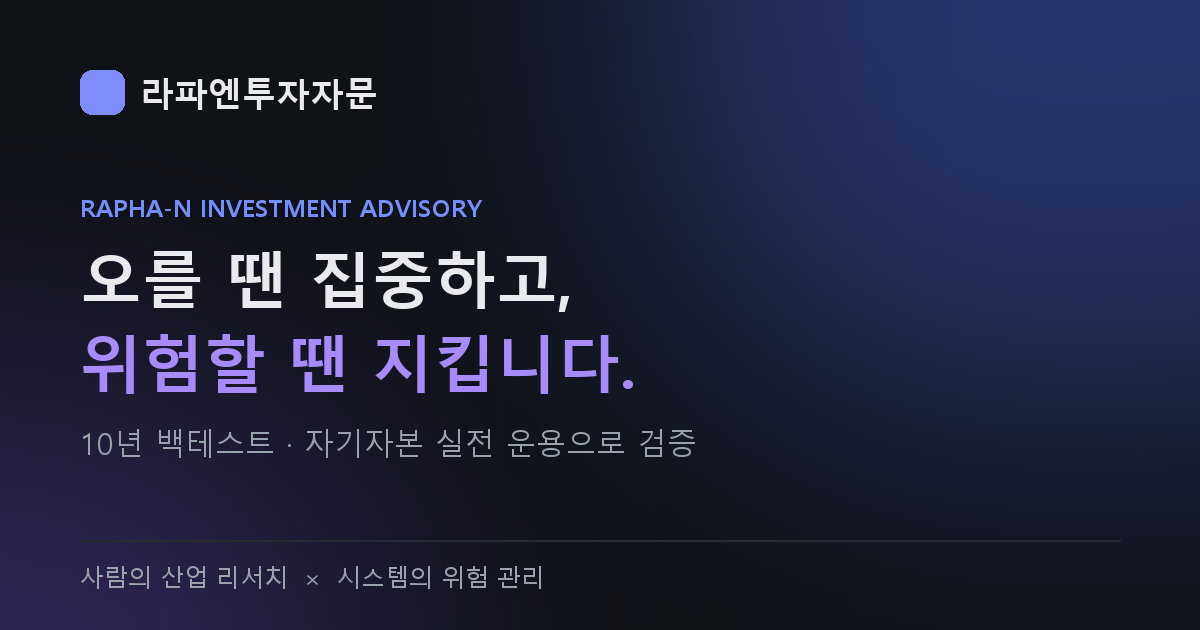
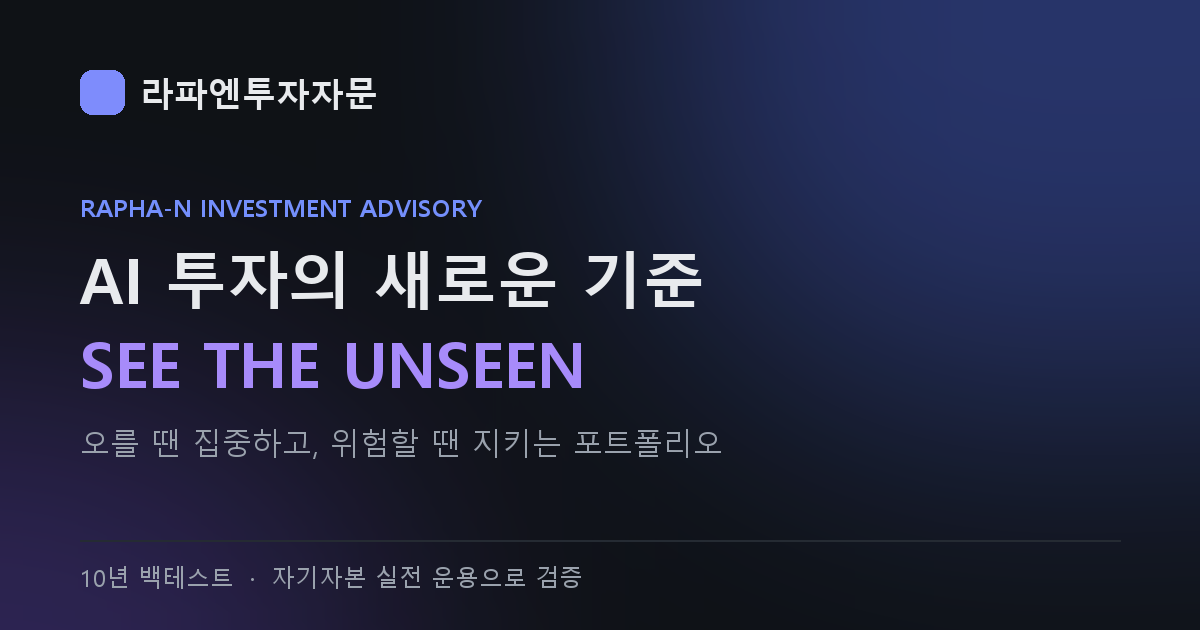
홈 히어로: 제목은 원래 문구로, 소제목을 두 줄(포트폴리오 한 줄 + 설명)로 변경

Changed region(s): [[0.0617, 0.3921, 0.5858, 0.6333], [0.0617, 0.6635, 0.6167, 0.7238], [0.0617, 0.8746, 0.4933, 0.9349]]

diff --git a/index.html b/index.html
@@ -3,12 +3,12 @@
 <head>
 <meta charset="utf-8">
 <meta name="viewport" content="width=device-width,initial-scale=1">
-<title>라파엔투자자문 — 오를 땐 집중하고, 위험할 땐 지킵니다</title>
+<title>라파엔투자자문 — AI 투자의 새로운 기준</title>
 <!-- og -->
 <meta property="og:type" content="website">
 <meta property="og:site_name" content="라파엔투자자문">
-<meta property="og:title" content="라파엔투자자문 — 오를 땐 집중하고, 위험할 땐 지킵니다">
-<meta property="og:description" content="10년 백테스트와 자기자본 실전 운용으로 검증한 투자 시스템.">
+<meta property="og:title" content="라파엔투자자문 — AI 투자의 새로운 기준">
+<meta property="og:description" content="오를 땐 집중하고, 위험할 땐 지키는 포트폴리오. 10년 백테스트와 자기자본 실전 운용으로 검증했습니다.">
 <meta property="og:url" content="https://pdhman.github.io/rapha-n-site/">
 <meta property="og:image" content="https://pdhman.github.io/rapha-n-site/assets/og-site.png">
 <meta property="og:image:width" content="1200">
@@ -17,7 +17,7 @@
 <!-- /og -->
 <meta name="description" content="10년 백테스트와 자기자본 실전 운용으로 검증한 투자 시스템. 오를 땐 성장 산업에 집중하고, 위험할 땐 현금으로 지킵니다.">
 <link rel="stylesheet" href="https://cdn.jsdelivr.net/gh/orioncactus/pretendard@v1.3.9/dist/web/variable/pretendardvariable.min.css">
-<link rel="stylesheet" href="assets/style.css?v=20260918b">
+<link rel="stylesheet" href="assets/style.css?v=20260918c">
 </head>
 <body>
 
@@ -25,9 +25,10 @@
 <section class="hero">
   <canvas id="hero-canvas"></canvas>
   <div class="inner">
-    <div class="hero-badge">10년 백테스트 · 자기자본 실전 운용으로 검증</div>
-    <h1>오를 땐 집중하고,<br>위험할 땐 지킵니다</h1>
-    <p class="lead">사람의 산업 리서치와 시스템의 위험 관리를 결합한 투자자문</p>
+    <h1>AI 투자의 새로운 기준을 제시하다</h1>
+    <div class="en">SEE THE UNSEEN</div>
+    <p class="lead-strong">오를 땐 집중하고, 위험할 땐 지키는 포트폴리오</p>
+    <p class="lead">방대한 시장 데이터를 자동으로 수집·분석해 감정과 편향에 흔들리지 않는 투자 의사결정을 돕습니다.</p>
     <div class="btn-row">
       <a class="btn primary" href="product.html">자문 상품 보기</a>
       <a class="btn" href="information.html">오늘의 리서치</a>
@@ -94,6 +95,6 @@
   <a class="btn primary" href="product.html#contact">상담 문의</a>
 </section>
 
-<script src="assets/site.js?v=20260918b"></script>
+<script src="assets/site.js?v=20260918c"></script>
 </body>
 </html>

diff --git a/assets/style.css b/assets/style.css
@@ -364,8 +364,6 @@ a.card:hover { transform:translateY(-2px); }
 /* ── 자문 상품 · 홈 개편 ── */
 .hero-badge { display:inline-block; padding:8px 18px; border-radius:999px; font-size:13.5px; font-weight:700; letter-spacing:.01em;
   color:#dfe5ff; background:rgba(116,143,252,.16); border:1px solid rgba(140,160,255,.45); margin-bottom:26px; }
-.hero h1 { font-size:clamp(34px,6vw,68px); line-height:1.18; margin-bottom:22px; }
-.hero p.lead { font-size:clamp(15px,2vw,19px); }
 .prod-hero h1 { font-size:clamp(26px,4vw,44px); }
 .prod-hero h1 span { display:block; font-size:.62em; color:var(--muted); font-weight:700; margin-bottom:6px; }
 
@@ -458,3 +456,6 @@ a.card:hover { transform:translateY(-2px); }
 .nav .sub li.sub-head { font-size:11px; font-weight:700; color:var(--muted); padding:10px 12px 4px; letter-spacing:.06em; }
 .nav .sub li.sub-head:first-child { padding-top:4px; }
 .nav .sub { max-height:calc(100vh - 90px); overflow:auto; }
+
+.hero p.lead-strong { margin:0 auto 12px; font-size:clamp(17px,2.4vw,24px); font-weight:700; color:#fff; letter-spacing:-.01em; }
+.hero p.lead { font-size:clamp(14px,1.7vw,17px); max-width:660px; }

diff --git a/education.html b/education.html
@@ -17,7 +17,7 @@
 <!-- /og -->
 <meta name="description" content="라파엔투자자문의 투자 교육 과정. AI와 함께 배우는 퀀트 투자 과정을 시작으로 교육 과정을 늘려 갑니다.">
 <link rel="stylesheet" href="https://cdn.jsdelivr.net/gh/orioncactus/pretendard@v1.3.9/dist/web/variable/pretendardvariable.min.css">
-<link rel="stylesheet" href="assets/style.css?v=20260918b">
+<link rel="stylesheet" href="assets/style.css?v=20260918c">
 </head>
 <body>
 
@@ -90,6 +90,6 @@
   <a class="btn primary" href="edu-quant.html">과정 보러 가기</a>
 </section>
 
-<script src="assets/site.js?v=20260918b"></script>
+<script src="assets/site.js?v=20260918c"></script>
 </body>
 </html>

diff --git a/edu-quant.html b/edu-quant.html
@@ -17,7 +17,7 @@
 <!-- /og -->
 <meta name="description" content="코딩을 몰라도 AI와 함께 나만의 투자 규칙을 만들고 검증하는 퀀트 입문 과정. 직장인·대학생 누구나.">
 <link rel="stylesheet" href="https://cdn.jsdelivr.net/gh/orioncactus/pretendard@v1.3.9/dist/web/variable/pretendardvariable.min.css">
-<link rel="stylesheet" href="assets/style.css?v=20260918b">
+<link rel="stylesheet" href="assets/style.css?v=20260918c">
 </head>
 <body>
 
@@ -256,6 +256,6 @@
   <a class="btn primary" href="#apply">수강 신청하기</a>
 </section>
 
-<script src="assets/site.js?v=20260918b"></script>
+<script src="assets/site.js?v=20260918c"></script>
 </body>
 </html>

diff --git a/admin.html b/admin.html
@@ -6,7 +6,7 @@
 <meta name="robots" content="noindex">
 <title>관리자 · 라파엔투자자문</title>
 <link rel="stylesheet" href="https://cdn.jsdelivr.net/gh/orioncactus/pretendard@v1.3.9/dist/web/variable/pretendardvariable.min.css">
-<link rel="stylesheet" href="assets/style.css?v=20260918b">
+<link rel="stylesheet" href="assets/style.css?v=20260918c">
 </head>
 <body>
 
@@ -74,7 +74,7 @@
   </div>
 </section>
 
-<script src="assets/site.js?v=20260918b"></script>
+<script src="assets/site.js?v=20260918c"></script>
 <script>
 (function () {
   var API = 'https://api.github.com/repos/' + SITE.repo + '/contents/' + SITE.noticesFile;

diff --git a/business.html b/business.html
@@ -5,7 +5,7 @@
 <meta name="viewport" content="width=device-width,initial-scale=1">
 <title>Business · 라파엔투자자문</title>
 <link rel="stylesheet" href="https://cdn.jsdelivr.net/gh/orioncactus/pretendard@v1.3.9/dist/web/variable/pretendardvariable.min.css">
-<link rel="stylesheet" href="assets/style.css?v=20260918b">
+<link rel="stylesheet" href="assets/style.css?v=20260918c">
 </head>
 <body>
 
@@ -82,6 +82,6 @@
   <a class="btn primary" href="about.html">오시는 길 · 연락처</a>
 </section>
 
-<script src="assets/site.js?v=20260918b"></script>
+<script src="assets/site.js?v=20260918c"></script>
 </body>
 </html>

diff --git a/product.html b/product.html
@@ -17,7 +17,7 @@
 <!-- /og -->
 <meta name="description" content="오를 땐 성장 산업에 집중하고, 위험할 땐 현금으로 지키는 라파엔투자자문의 자문 상품.">
 <link rel="stylesheet" href="https://cdn.jsdelivr.net/gh/orioncactus/pretendard@v1.3.9/dist/web/variable/pretendardvariable.min.css">
-<link rel="stylesheet" href="assets/style.css?v=20260918b">
+<link rel="stylesheet" href="assets/style.css?v=20260918c">
 </head>
 <body>
 
@@ -152,6 +152,6 @@
   </div>
 </section>
 
-<script src="assets/site.js?v=20260918b"></script>
+<script src="assets/site.js?v=20260918c"></script>
 </body>
 </html>

diff --git a/information.html b/information.html
@@ -5,7 +5,7 @@
 <meta name="viewport" content="width=device-width,initial-scale=1">
 <title>Information · 라파엔투자자문</title>
 <link rel="stylesheet" href="https://cdn.jsdelivr.net/gh/orioncactus/pretendard@v1.3.9/dist/web/variable/pretendardvariable.min.css">
-<link rel="stylesheet" href="assets/style.css?v=20260918b">
+<link rel="stylesheet" href="assets/style.css?v=20260918c">
 </head>
 <body>
 
@@ -19,6 +19,6 @@
 
 <div data-viewer="information"></div>
 
-<script src="assets/site.js?v=20260918b"></script>
+<script src="assets/site.js?v=20260918c"></script>
 </body>
 </html>

diff --git a/process.html b/process.html
@@ -5,7 +5,7 @@
 <meta name="viewport" content="width=device-width,initial-scale=1">
 <title>Process · 라파엔투자자문</title>
 <link rel="stylesheet" href="https://cdn.jsdelivr.net/gh/orioncactus/pretendard@v1.3.9/dist/web/variable/pretendardvariable.min.css">
-<link rel="stylesheet" href="assets/style.css?v=20260918b">
+<link rel="stylesheet" href="assets/style.css?v=20260918c">
 </head>
 <body>
 
@@ -64,6 +64,6 @@
   </div>
 </section>
 
-<script src="assets/site.js?v=20260918b"></script>
+<script src="assets/site.js?v=20260918c"></script>
 </body>
 </html>

diff --git a/notice.html b/notice.html
@@ -5,7 +5,7 @@
 <meta name="viewport" content="width=device-width,initial-scale=1">
 <title>Notice · 라파엔투자자문</title>
 <link rel="stylesheet" href="https://cdn.jsdelivr.net/gh/orioncactus/pretendard@v1.3.9/dist/web/variable/pretendardvariable.min.css">
-<link rel="stylesheet" href="assets/style.css?v=20260918b">
+<link rel="stylesheet" href="assets/style.css?v=20260918c">
 </head>
 <body>
 
@@ -23,6 +23,6 @@
   </div>
 </section>
 
-<script src="assets/site.js?v=20260918b"></script>
+<script src="assets/site.js?v=20260918c"></script>
 </body>
 </html>

diff --git a/about.html b/about.html
@@ -5,7 +5,7 @@
 <meta name="viewport" content="width=device-width,initial-scale=1">
 <title>About · 라파엔투자자문</title>
 <link rel="stylesheet" href="https://cdn.jsdelivr.net/gh/orioncactus/pretendard@v1.3.9/dist/web/variable/pretendardvariable.min.css">
-<link rel="stylesheet" href="assets/style.css?v=20260918b">
+<link rel="stylesheet" href="assets/style.css?v=20260918c">
 </head>
 <body>
 
@@ -84,6 +84,6 @@
   </div>
 </section>
 
-<script src="assets/site.js?v=20260918b"></script>
+<script src="assets/site.js?v=20260918c"></script>
 </body>
 </html>
